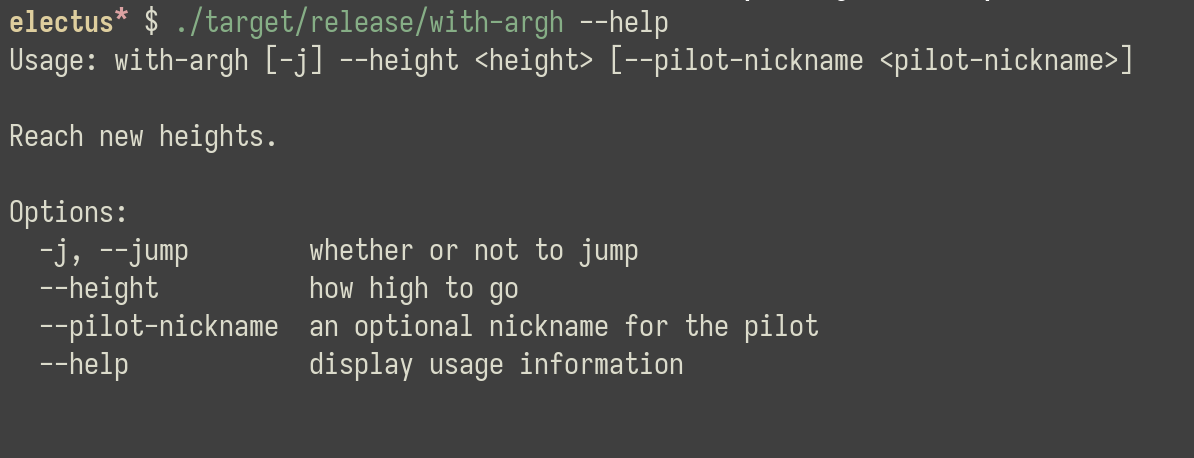
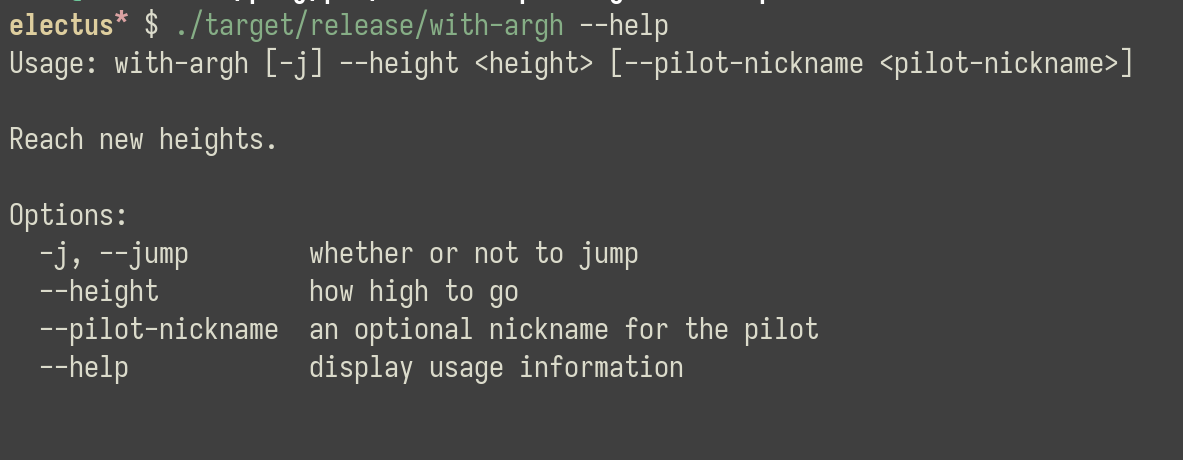
Add long flag to clap
so that it is equivalent to the argh version.

diff --git a/pkgs/clap/src/main.rs b/pkgs/clap/src/main.rs
@@ -4,7 +4,7 @@ use clap::Parser;
 /// Reach new heights.
 struct Cli {
     /// whether or not to jump
-    #[clap(short = 'j')]
+    #[clap(short = 'j', long)]
     jump: bool,
 
     /// how high to go
